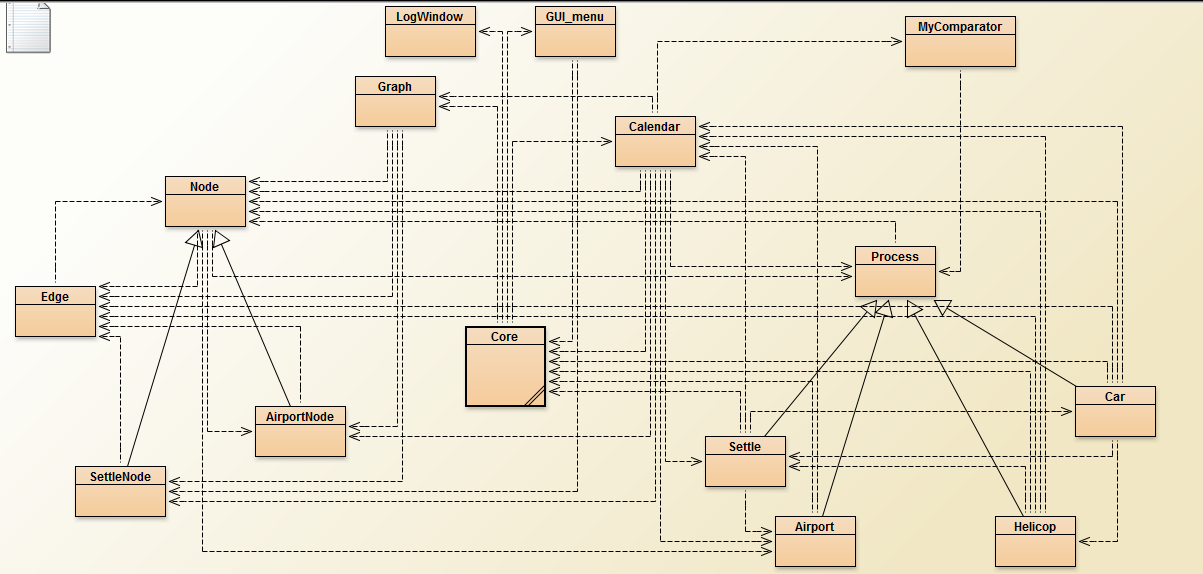
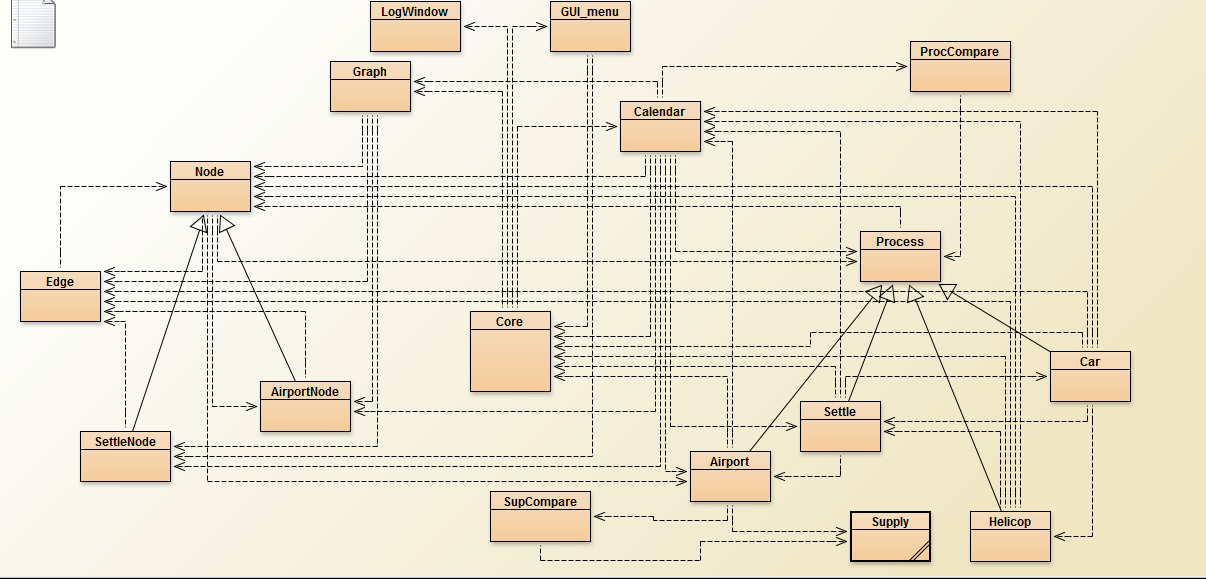
minor updates
update: class names
update: gitignore
update: UML

Changed region(s): [[0.0, 0.0, 1.0, 1.0], [0.5536, 0.0889, 0.6459, 0.1185], [0.8919, 0.3258, 0.9227, 0.3554]]

diff --git a/Airport.java b/Airport.java
@@ -2,7 +2,7 @@ import java.util.*;
 
 class Airport extends Process{
 	int allFood = 500000;
-	public PriorityQueue<Supply> pq = new PriorityQueue<Supply>(10, new MyComparatorSupply());
+	public PriorityQueue<Supply> pq = new PriorityQueue<Supply>(10, new SupCompare());
 	public Airport(int time){
 		super(time);
 		pq.add(new Supply(500000,Calendar.time+2880));

diff --git a/Calendar.java b/Calendar.java
@@ -13,7 +13,7 @@ public class Calendar extends Thread
 {
     
     public static int time; //cas simulace v minutach;
-    public static PriorityQueue<Process> q = new PriorityQueue<Process>(3000, new MyComparator());
+    public static PriorityQueue<Process> q = new PriorityQueue<Process>(3000, new ProcCompare());
     public static Graph g;
     
     

diff --git a/SupCompare.java b/SupCompare.java
@@ -1,6 +1,6 @@
 import java.util.*;
 
-public class MyComparatorSupply implements Comparator<Supply>{
+public class SupCompare implements Comparator<Supply>{
     @Override
     public int compare(Supply o1, Supply o2) {
         return o1.expire - o2.expire;

diff --git a/ProcCompare.java b/ProcCompare.java
@@ -1,6 +1,6 @@
 import java.util.*;
 
-public class MyComparator implements Comparator<Process>{
+public class ProcCompare implements Comparator<Process>{
     @Override
     public int compare(Process o1, Process o2) {
         return o1.time - o2.time;

diff --git a/Supply.java b/Supply.java
@@ -1,8 +1,3 @@
-
-
-
-
-
 /*******************************************************************************
  * Instance tridy {@code Supply} predstavuji zasoby
  *
